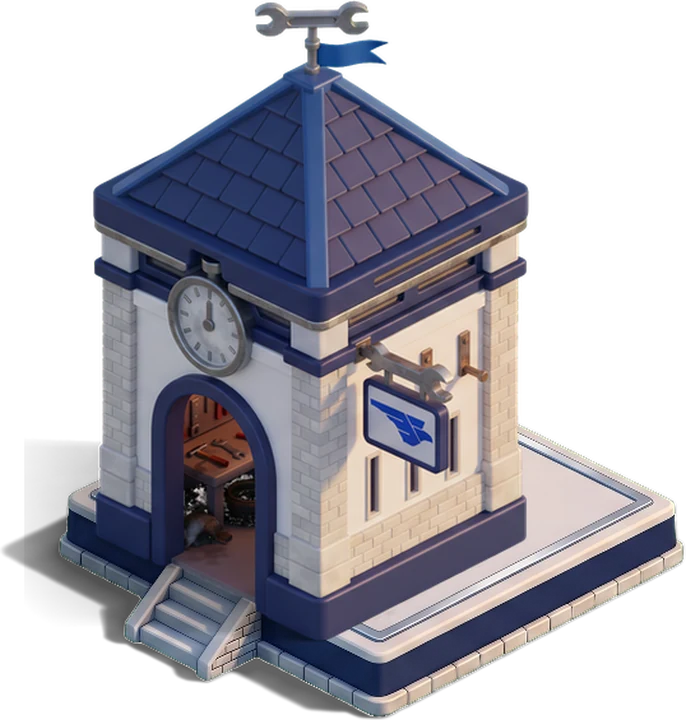
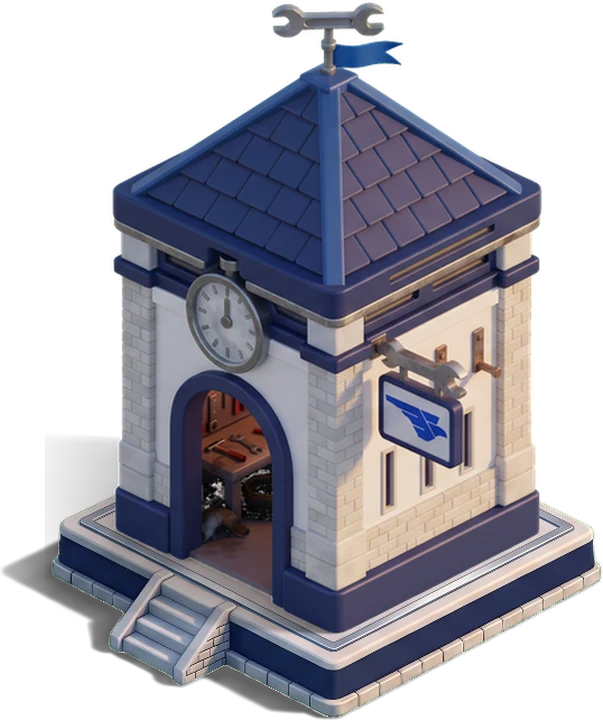
Builders' huts: measured on the pictures, each hut's base centred inside its pad's inner border line, the same gap all round

diff --git a/js/core/item-fit.js b/js/core/item-fit.js
@@ -175,44 +175,44 @@ export const ITEM_FIT = {
     "pad": 0.022
   },
   "icons/Items/builder-blue-2-a.webp": {
-    "w": 0.908,
-    "mid": 0.542,
-    "pad": 0.006
+    "w": 0.907,
+    "mid": 0.541,
+    "pad": 0.004
   },
   "icons/Items/builder-blue-2-b.webp": {
     "w": 0.922,
     "mid": 0.535,
-    "pad": 0.006
+    "pad": 0.004
   },
   "icons/Items/builder-gold-2-a.webp": {
     "w": 0.875,
     "mid": 0.558,
-    "pad": 0.017
+    "pad": 0.015
   },
   "icons/Items/builder-gold-2-b.webp": {
-    "w": 0.922,
+    "w": 0.921,
     "mid": 0.534,
-    "pad": 0.019
+    "pad": 0.018
   },
   "icons/Items/builder-green-2-a.webp": {
-    "w": 0.903,
-    "mid": 0.548,
+    "w": 0.93,
+    "mid": 0.535,
     "pad": 0.014
   },
   "icons/Items/builder-green-2-b.webp": {
     "w": 0.929,
-    "mid": 0.536,
+    "mid": 0.535,
     "pad": 0.015
   },
   "icons/Items/builder-red-2-a.webp": {
-    "w": 0.917,
+    "w": 0.916,
     "mid": 0.537,
-    "pad": 0.008
+    "pad": 0.007
   },
   "icons/Items/builder-red-2-b.webp": {
-    "w": 0.919,
-    "mid": 0.537,
-    "pad": 0.017
+    "w": 0.917,
+    "mid": 0.536,
+    "pad": 0.014
   },
   "icons/Items/clan-arcade-cabinet-a.webp": {
     "w": 0.926,

diff --git a/tools/render-items/make-builders.py b/tools/render-items/make-builders.py
@@ -1,34 +1,76 @@
 """make-builders.py: each builder's hut standing on its pad, as one item picture per facing
-(icons/Items/builder-<who>-2-<a|b>.webp; the 2 changes whenever they're redone), so the plot base can place, move and turn them like any item.
+(icons/Items/builder-<who>-2-<a|b>.webp; the 2 changes whenever they're redone), so the plot base can place,
+move and turn them like any item.
 
     python tools/render-items/make-builders.py <cut dir>
 
-<cut dir>  Base/repaint/cut: pad-navy-<who>-<a|b>.png/.json and hut-navy-<who>-<a|b>.png/.json
-           (cut-base-repaints.py; the renders' frames, PPU 100, the json's ox/oy the footprint's middle)
+<cut dir>  Base/repaint/cut: pad-navy-<who>-<a|b>.png and hut-navy-<who>-<a|b>.png (cut-base-repaints.py)
 
-The hut nearly fills its pad (HUT of the pad's side, a thin edge of the pad showing all round), its middle on
-the pad's middle. The item's footprint is the pad's.
+The hut stands in the middle of its pad and nearly fills it: its base sits inside the pad's inner border line,
+the same small gap all round (HUT: the base's width as a share of the border's). Both are measured on the
+pictures themselves, not taken from the renders' numbers (the repaints moved things a little):
+  - the pad: the pale field inside its inner border line (its four corners);
+  - the hut: its navy plinth at the foot (its left and right ends, and its lowest point, the front corner).
+    Where a door, a bench or a kettlebell hides or stretches the plinth, BASE sets the ends by hand (measured
+    on the pictures, checked against the hut's other facing, which has the same width).
+The item's footprint is the pad's.
 """
-import json, os, sys
+import os, sys
+import numpy as np
 from PIL import Image
+from scipy import ndimage as nd
 
 OUT = os.path.join(os.path.dirname(os.path.abspath(__file__)), '..', '..', 'icons', 'Items')
-HUT = {'blue': 0.9, 'red': 0.9, 'green': 0.9, 'gold': 0.9}   # the hut's longest side, as a share of the pad's
-LIFT = 15        # px of the pad's render: the hut stands on the pad's top, not the ground under it
+HUT = 0.92       # the hut's base width, as a share of the pad's inner border's
 HEIGHT = 720     # the stored picture's height, as the other items
+# hand-set plinth ends (px of the hut's picture): {'<who>-<face>': {'xl' | 'xr' | 'yf': px}}
+BASE = {'blue-a': {'xl': 54}, 'red-a': {'xl': 50}, 'red-b': {'xr': 372}, 'gold-a': {'xl': 55}}
+
+
+def pad_field(im):
+    """The pale field inside a pad's inner border line: its corners (back, right, front, left)."""
+    a = np.asarray(im).astype(float)
+    al = a[..., 3]; lum = a[..., :3].mean(2)
+    ys, xs = np.nonzero(al > 200)
+    yb = ys.min(); xb = xs[ys == yb].mean(); W = xs.max() - xs.min()
+    seed = (int(yb + W / 5), int(xb))   # on the pad's top, near its back
+    lab, _ = nd.label((lum > lum[seed] - 28) & (al > 200))
+    m = nd.binary_fill_holes(nd.binary_opening(lab == lab[seed], iterations=2))
+    ys, xs = np.nonzero(m)
+    return np.float64([(xs[np.argmin(ys)], ys.min()), (xs.max(), ys[np.argmax(xs)]), (xs[np.argmax(ys)], ys.max()), (xs.min(), ys[np.argmin(xs)])])
+
+
+def plinth(im, fix):
+    """A hut's navy plinth at its foot: its left and right ends and its lowest point."""
+    a = np.asarray(im).astype(int)
+    r, g, b, al = a[..., 0], a[..., 1], a[..., 2], a[..., 3]
+    lum = (r + g + b) / 3
+    ys, xs = np.nonzero(al > 200); bot, top = ys.max(), ys.min()
+    navy = (b > r + 18) & (b > g + 8) & (lum < 150) & (lum > 55) & (al > 200)
+    navy[: int(bot - 0.3 * (bot - top))] = False
+    navy = nd.binary_opening(navy, iterations=1)
+    lab, n = nd.label(navy)
+    sizes = nd.sum(navy, lab, range(1, n + 1))
+    m = np.isin(lab, np.nonzero(sizes > 0.15 * sizes.max())[0] + 1)
+    ys, xs = np.nonzero(m)
+    return fix.get('xl', xs.min()), fix.get('xr', xs.max()), fix.get('yf', ys.max())
 
 
 def main():
     cut = sys.argv[1]
-    for who, k in HUT.items():
+    for who in ('blue', 'red', 'green', 'gold'):
         for face in 'ab':
-            pm = json.load(open(os.path.join(cut, f'pad-navy-{who}-{face}.json')))
-            hm = json.load(open(os.path.join(cut, f'hut-navy-{who}-{face}.json')))
-            pad = Image.open(os.path.join(cut, f'pad-navy-{who}-{face}.png')).convert('RGBA')
-            hut = Image.open(os.path.join(cut, f'hut-navy-{who}-{face}.png')).convert('RGBA')
-            s = k * pm['tiles'] / hm['tiles']
+            key = f'{who}-{face}'
+            pad = Image.open(os.path.join(cut, f'pad-navy-{key}.png')).convert('RGBA')
+            hut = Image.open(os.path.join(cut, f'hut-navy-{key}.png')).convert('RGBA')
+            f = pad_field(pad)
+            fx, fy = f.mean(0); fw = f[1, 0] - f[3, 0]
+            xl, xr, yf = plinth(hut, BASE.get(key, {}))
+            s = HUT * fw / (xr - xl)
             hut = hut.resize((round(hut.width * s), round(hut.height * s)), Image.LANCZOS)
-            hx, hy = pm['ox'] - hm['ox'] * s, pm['oy'] - LIFT - hm['oy'] * s
+            # the base's middle (2:1: a quarter of its width above its front corner) on the field's
+            bx, by = (xl + xr) / 2 * s, (yf - (xr - xl) / 4) * s
+            hx, hy = fx - bx, fy - by
             x0, y0 = min(0, hx), min(0, hy)
             x1, y1 = max(pad.width, hx + hut.width), max(pad.height, hy + hut.height)
             c = Image.new('RGBA', (round(x1 - x0), round(y1 - y0)), (0, 0, 0, 0))
@@ -37,7 +79,7 @@ def main():
             c = c.crop(c.getchannel('A').point(lambda v: 255 if v > 3 else 0).getbbox())
             c = c.resize((round(c.width * HEIGHT / c.height), HEIGHT), Image.LANCZOS)
             c.save(os.path.join(OUT, f'builder-{who}-2-{face}.webp'), quality=88, method=6)
-            print(f'builder-{who}-2-{face}', c.size)
+            print(f'builder-{who}-2-{face}', c.size, 'hut scale', round(s, 3))
 
 
 if __name__ == '__main__':
